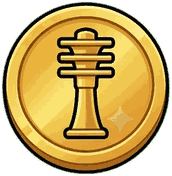
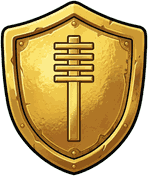
Mnemonic: o tabuleiro ganha verso e moldura pintados
O VERSO é a coisa mais vista deste jogo — metade das cartas está de
costas o tempo todo, e ele era um degradê com dois círculos por cima.
Degradê é exatamente o que faz uma tela parecer aplicativo. Agora é arte
ocupando a carta inteira, em `cover` e não `contain`: uma margem de fundo
em volta denunciaria que ali existe um retângulo colado.

E o verso passou a DIZER coisa — mas só o que já se pode saber sem virar:

  · dourado   carta fixa, marcada pelo Egito
  · roxo      carta sem par, que perdeu a dupla
  · vinho     o baralho inteiro, na sala do chefe

O que ficou de fora foi de propósito: CONHECIDA. Marcar de costas a carta
que você já viu tiraria a memória do jogo da memória — a tela passaria a
jogar por você.

A MOLDURA da frente agrupa por AQUILO QUE A CARTA FAZ COM VOCÊ, e não por
tipo: são oito molduras para catorze tipos, e esticar uma para cada tipo
daria catorze coisas para decorar. Neutra, dinheiro, valor, lenda,
memória, perigo, armadilha, mecânica. A cor continua sendo a da FAMÍLIA,
que é o que identifica o par — moldura e cor respondem a perguntas
diferentes, e não podem responder a mesma. O curinga fica sem moldura: a
face dele é o arco-íris, e cobrir a borda esconderia justamente o que o
identifica.

O brasão do Egito foi refeito: tinha voltado com uma peça de xadrez
dourada, e a família Xadrez já usa a torre. Agora é o pilar djed.

No cortador, `so_a_maior`: os modelos assinam a folha com um brilhinho de
[…]

diff --git a/mnemonic/jogo.html b/mnemonic/jogo.html
@@ -286,24 +286,44 @@ img.gl{object-fit:contain;stroke:none;
         backface-visibility:hidden;-webkit-backface-visibility:hidden;
         display:grid;place-items:center;overflow:hidden;
         border:2px solid var(--traco)}
-/* verso: peça grossa com selo */
-.fr{background:
-      repeating-linear-gradient(45deg,rgba(255,255,255,.045) 0 3px,transparent 3px 9px),
-      radial-gradient(120% 92% at 50% 0%, #35507f, #1b2c4c 58%, #101c31);
-    box-shadow:inset 0 3px 0 rgba(255,255,255,.16), inset 0 -6px 12px rgba(0,0,0,.55),
-               0 4px 0 rgba(0,0,0,.55)}
-.fr:before{content:'';position:absolute;inset:5px;border-radius:calc(var(--r) - 5px);
-  border:2px solid rgba(255,194,60,.16)}
-.fr:after{content:'';width:36%;height:36%;border-radius:50%;
-  border:2.5px solid rgba(255,194,60,.3);
-  box-shadow:inset 0 0 0 4px rgba(255,194,60,.09), 0 0 10px rgba(255,194,60,.15)}
-/* frente: cor cheia da família */
-.ff{transform:rotateY(180deg);color:#fff;padding:11%;
+/* ───────── O VERSO É PINTADO ─────────
+   O verso é a coisa mais vista do jogo: metade das cartas está de costas o
+   tempo todo. Ele era um degradê com dois círculos por cima, e o degradê é
+   justamente o que faz uma tela parecer aplicativo. Agora é arte, e o desenho
+   ocupa a carta inteira — `cover` e não `contain`, porque uma margem de fundo
+   em volta denunciaria que ali existe um retângulo colado. */
+.fr{background:url(arte/carta/v-azul.png) center/cover no-repeat, #101c31;
+    box-shadow:inset 0 -5px 10px rgba(0,0,0,.4), 0 4px 0 rgba(0,0,0,.55)}
+/* O VERSO DIZ O QUE DÁ PARA SABER SEM VIRAR — e só isso.
+   Carta fixa e carta sem par são coisas que o jogo já te contou; mostrá-las
+   de costas é lembrete, não dica. O que NÃO pode entrar aqui é "conhecida":
+   marcar de costas a carta que você já viu tiraria a memória do jogo da
+   memória e a tela passaria a jogar por você. */
+.ct.marc .fr{background-image:url(arte/carta/v-ouro.png)}
+.ct.orfa .fr{background-image:url(arte/carta/v-roxo.png)}
+/* na sala do chefe o baralho inteiro troca: o encontro tem de pesar antes da
+   primeira virada */
+#mesa.chefe .fr{background-image:url(arte/carta/v-vinho.png)}
+/* frente: cor cheia da família, dentro de uma moldura pintada.
+   A moldura entra como border-image por cima do fundo colorido — assim a cor
+   continua sendo a da família (que é o que identifica o par) e a moldura diz
+   o QUE aquela carta faz com você. */
+.ff{transform:rotateY(180deg);color:#fff;padding:14%;
+    border:0;
     background:
       radial-gradient(112% 84% at 50% 0%, color-mix(in srgb,var(--fc) 62%, #0d1728),
                       color-mix(in srgb,var(--fc) 16%, #08111f) 78%);
-    box-shadow:inset 0 3px 0 color-mix(in srgb,var(--fc) 70%,transparent),
-               inset 0 -6px 12px rgba(0,0,0,.5), 0 4px 0 rgba(0,0,0,.55)}
+    box-shadow:inset 0 -6px 12px rgba(0,0,0,.5), 0 4px 0 rgba(0,0,0,.55)}
+.ct.temold .ff{background-clip:padding-box;
+  border-image:url(arte/carta/m-prata.png) 44 fill / 15px / 0 stretch;
+  box-shadow:0 4px 0 rgba(0,0,0,.55)}
+.ct.m-ouro  .ff{border-image-source:url(arte/carta/m-ouro.png)}
+.ct.m-gelo  .ff{border-image-source:url(arte/carta/m-gelo.png)}
+.ct.m-aco   .ff{border-image-source:url(arte/carta/m-aco.png)}
+.ct.m-fogo  .ff{border-image-source:url(arte/carta/m-fogo.png)}
+.ct.m-roxo  .ff{border-image-source:url(arte/carta/m-roxo.png)}
+.ct.m-coral .ff{border-image-source:url(arte/carta/m-coral.png)}
+.ct.m-vinho .ff{border-image-source:url(arte/carta/m-vinho.png)}
 .ff .gl{stroke-width:2.4;color:#fff;
   filter:drop-shadow(0 2px 0 rgba(0,0,0,.55)) drop-shadow(0 0 10px var(--fc))}
 

diff --git a/mnemonic/js/ui/jogo.js b/mnemonic/js/ui/jogo.js
@@ -36,7 +36,7 @@ import { RELIQUIAS, POR_ID, RARIDADE } from '../data/reliquias.js';
 import { LISTA_BOSSES } from '../data/bosses.js';
 import { svgGlifo } from '../arte/glifos.js';
 import { SFX, acordar, mudo, estaMudo } from './sfx.js';
-import { ICO, ICO_CLASSE, ICO_CHEFE, icoReliquia } from './icones.js';
+import { ICO, ICO_CLASSE, ICO_CHEFE, icoReliquia, MOLDURA_DO_TIPO } from './icones.js';
 import { CAPITULOS, FAMILIA_DE_PECA, peca, PALAVRAS, COR_COMBO, corDoCombo }
   from './catalogo.js';
 import * as RANK from '../net/ranking.js';
@@ -485,8 +485,13 @@ function cartaHTML(c, pequena){
       ? `<span class="selo tp" style="color:${t.cor}">${esc(t.nome)}</span>` : '';
   const gelo = c.camadas>1 ? '<span class="selo pv" style="color:#a8e2ff">GELO</span>' : '';
   const selada = c.resolvida && !mostrando.has(c.id);
+  /* a moldura pintada da frente. O curinga fica de fora: a face dele é o
+     arco-íris inteiro e uma moldura por cima esconderia justamente o que o
+     identifica. */
+  const mold = curinga ? '' : MOLDURA_DO_TIPO[c.tipo] || '';
   const cls = ['ct', faceAberta(c)?'ab':'', c.marcada?'marc':'', selada?'feito':'',
-               curinga?'curinga':'', c.orfa?'orfa':''];
+               curinga?'curinga':'', c.orfa?'orfa':'',
+               mold ? 'temold '+mold : ''];
   /* o curinga não usa desenho de família: ele tem cara própria, e é por isso
      que dá para reconhecê-lo assim que vira */
   const desenho = curinga ? ICO.espelho : svgGlifo(c.fam, c.simbolo);
@@ -505,6 +510,9 @@ function mesa(refazer, chegada){
   const s = run.sala || salaViva; if(!s) return;
   const el = $('#mesa');
   ajustar();
+  /* na sala do chefe o baralho inteiro é outro — o verso troca antes da
+     primeira virada, para o encontro pesar sem precisar de um aviso */
+  el.classList.toggle('chefe', !!s.boss);
   const peq = el.dataset.pequena === '1';
   const todas = s.porPos();
   const monta = ()=>{ el.innerHTML = todas.map(c=>cartaHTML(c, peq)).join(''); };

diff --git a/mnemonic/js/ui/icones.js b/mnemonic/js/ui/icones.js
@@ -166,6 +166,26 @@ export const ICO_FAM = {};
 for(const id of ['runas','espaco','alquimia','xadrez','mitologia','tecnologia',
   'dragoes','egito']) ICO_FAM[id] = pintura('fam', id);
 
+/* ─────────── A MOLDURA DA CARTA ───────────
+   Oito molduras pintadas chegaram, e catorze tipos de carta existem. Em vez
+   de esticar as oito para caber uma em cada tipo, elas agrupam por AQUILO QUE
+   A CARTA FAZ COM VOCÊ — neutra, dinheiro, valor, lenda, memória, perigo,
+   armadilha, mecânica. O jogador não precisa decorar catorze molduras; precisa
+   bater o olho e saber se aquela carta vai render, atrapalhar ou explodir.
+
+   A cor continua sendo a da FAMÍLIA, que é o que identifica o par. A moldura
+   é a outra pergunta, e as duas não podem responder a mesma coisa. */
+export const MOLDURA_DO_TIPO = {
+  normal:'m-prata',  espelho:'m-prata',            /* sem truque, ou curinga */
+  ouro:'m-ouro',     raio:'m-ouro',                /* rende */
+  cristal:'m-gelo',  gelo:'m-gelo',                /* vale mais, custa mais */
+  lendaria:'m-fogo',                               /* uma por tabuleiro */
+  fantasma:'m-roxo', portal:'m-roxo',              /* mexem com a memória */
+  bomba:'m-coral',                                 /* tem pavio */
+  mimic:'m-vinho',                                 /* mente para você */
+  camaleao:'m-aco',  veneno:'m-aco', corrente:'m-aco',
+};
+
 /* a marca de uma relíquia, com o amuleto genérico como rede de segurança:
    relíquia nova entra no jogo sem quebrar a tela enquanto a arte não chega */
 export const icoReliquia = id => ICO_RELIQUIA[id] || ICO.reliquia;

diff --git a/mnemonic/tools/recortar.py b/mnemonic/tools/recortar.py
@@ -282,6 +282,39 @@ def limpar_sobras(im):
             for y, x in mancha: a[y, x, 3] = 0
     return Image.fromarray(a, 'RGBA')
 
+def so_a_maior(im):
+    """Fica só com a mancha maior — para peça que é UMA coisa inteiriça.
+
+    Os modelos assinam: quase toda folha volta com um brilhinho de quatro
+    pontas solto num canto. Numa moldura de carta isso é fatal, porque a
+    moldura é oca de propósito e o brilho fica boiando no meio do buraco — a
+    carta ganha uma estrelinha rosa que ninguém pediu.
+
+    Não vale como regra geral (o frasco de veneno tem uma gota separada e ela
+    é parte do desenho), então quem chama é quem sabe que a peça é inteiriça.
+    """
+    a = np.array(im)
+    op = a[..., 3] > 24
+    if not op.any(): return im
+    h, w = a.shape[:2]
+    visto = np.zeros((h, w), bool)
+    maior, manchas = None, []
+    for sy, sx in zip(*np.where(op)):
+        if visto[sy, sx]: continue
+        pilha = [(sy, sx)]; visto[sy, sx] = True; mancha = []
+        while pilha:
+            y, x = pilha.pop(); mancha.append((y, x))
+            for dy, dx in ((1,0),(-1,0),(0,1),(0,-1)):
+                ny, nx = y+dy, x+dx
+                if 0 <= ny < h and 0 <= nx < w and op[ny, nx] and not visto[ny, nx]:
+                    visto[ny, nx] = True; pilha.append((ny, nx))
+        manchas.append(mancha)
+        if maior is None or len(mancha) > len(maior): maior = mancha
+    for m in manchas:
+        if m is maior: continue
+        for y, x in m: a[y, x, 3] = 0
+    return Image.fromarray(a, 'RGBA')
+
 def aparar(im, folga=3):
     """corta a moldura vazia em volta da peça"""
     a = np.array(im)
